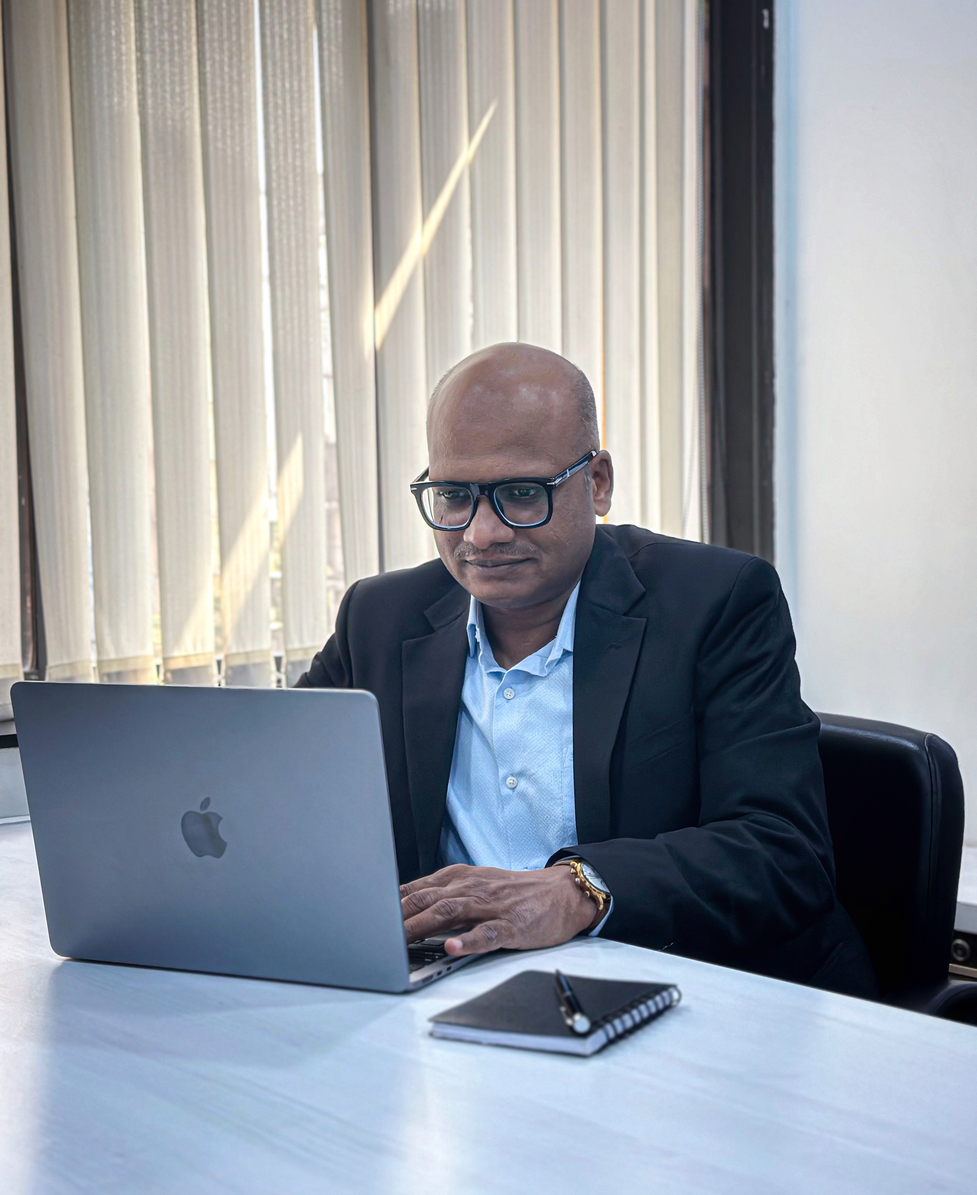
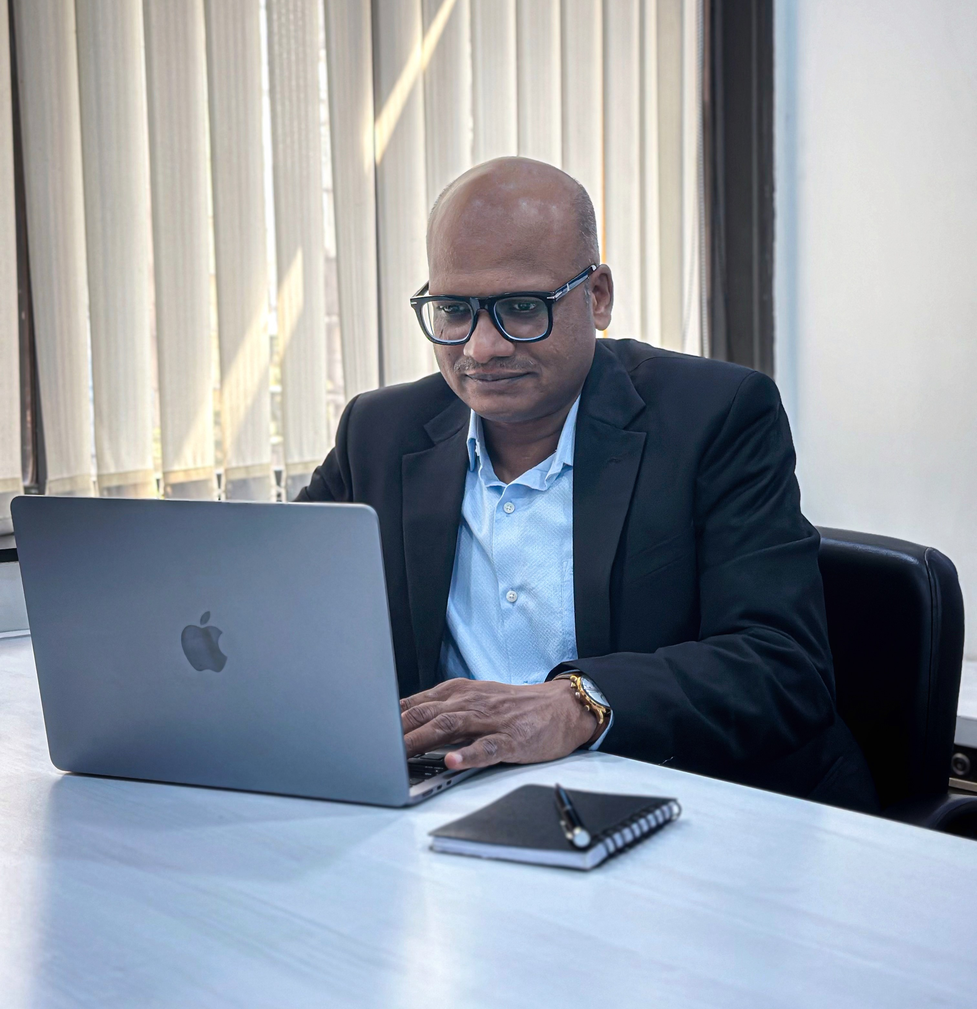
change image

diff --git a/frontend/src/components/Blog.jsx b/frontend/src/components/Blog.jsx
@@ -3,6 +3,7 @@ import { useNavigate } from "react-router-dom";
 import BlogCard from "./BlogCard";
 import axios from "axios";
 import { toast } from "react-toastify";
+import blog_img from '../assets/blog.jpeg'
 
 const SkeletonCard = () => (
   <div className="animate-pulse flex flex-col gap-2 bg-gray-800 p-4 rounded-md">
@@ -80,7 +81,7 @@ const Blog = ({ url }) => {
           <h1 className="text-4xl md:text-6xl font-bold mb-6 text-white">BLOG.</h1>
         </div>
         <div className="w-full md:w-1/2 flex justify-center">
-          <img src="https://images.unsplash.com/photo-1560250097-0b93528c311a?q=80&w=1374&auto=format&fit=crop&ixlib=rb-4.0.3&ixid=M3wxMjA3fDB8MHxwaG90by1wYWdlfHx8fGVufDB8fHx8fA%3D%3D" alt="profile" className="rounded-md shadow-lg w-3/4 md:w-full max-w-sm md:max-w-md"/>
+          <img src={blog_img} alt="profile" className="rounded-md shadow-lg w-3/4 md:w-full max-w-sm md:max-w-md"/>
         </div>
       </main>
       {/* Categories and Blogs Section */}
